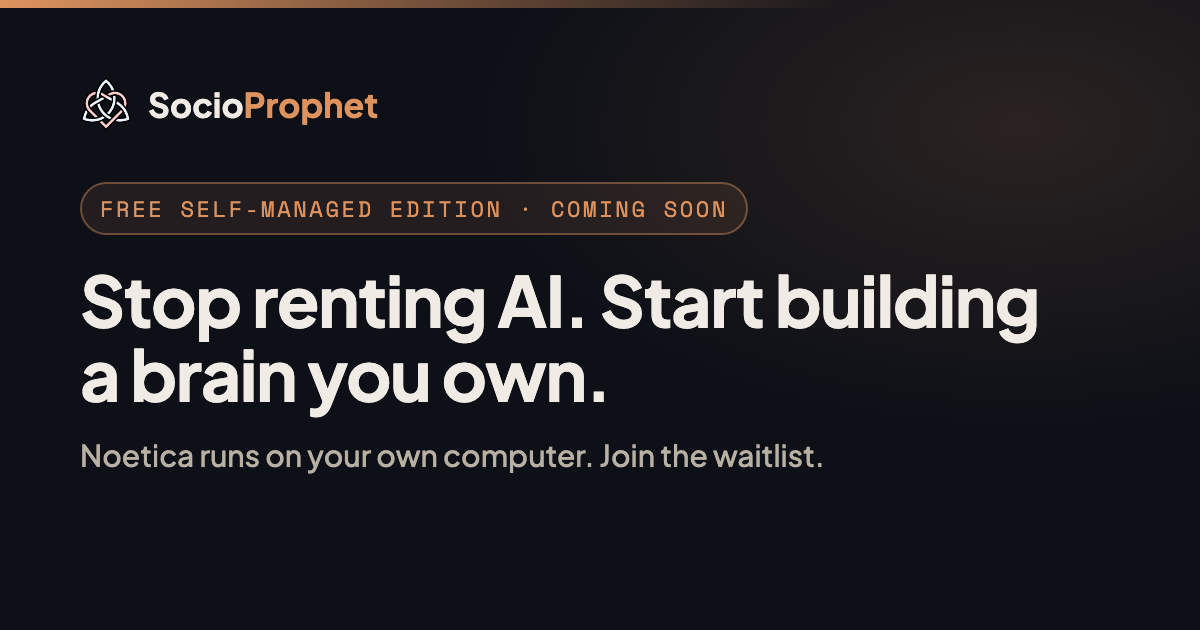
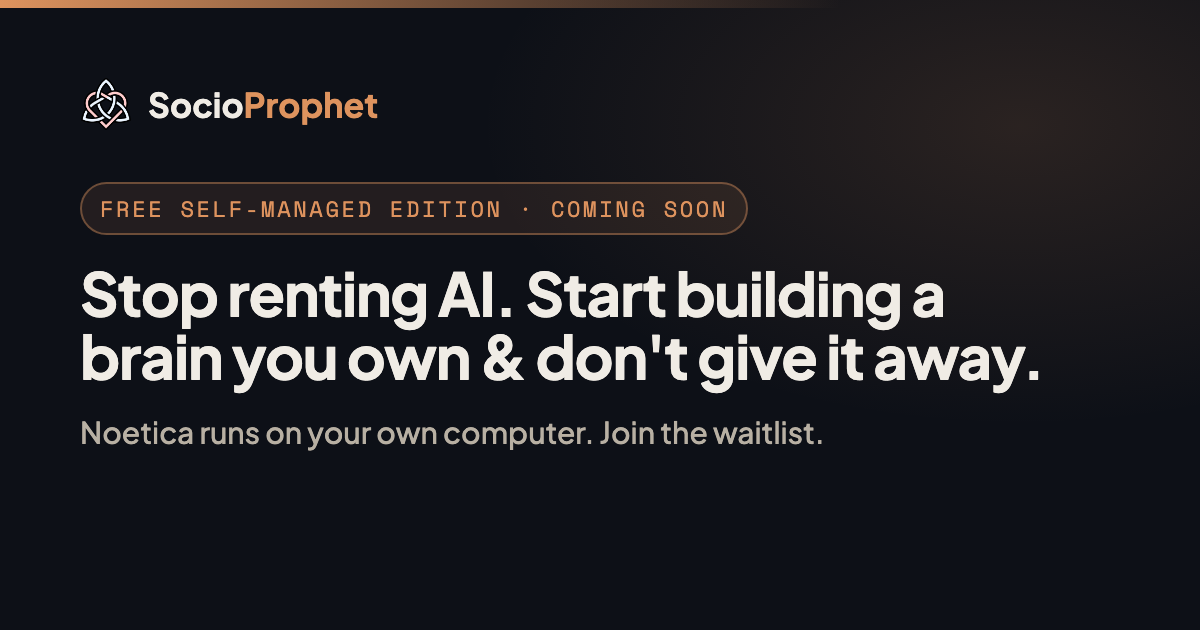
Beta page: final tagline "…a brain you own & don't give it away"

Changed region(s): [[0.0617, 0.4222, 0.8633, 0.754]]

diff --git a/src/pages/products/NoeticaBeta.tsx b/src/pages/products/NoeticaBeta.tsx
@@ -108,8 +108,8 @@ export function NoeticaBeta() {
             <Sparkles className="w-4 h-4" />
             <span>Free self-managed edition · Coming soon</span>
           </div>
-          <h1 className="text-4xl md:text-6xl font-bold tracking-tight text-white mb-5 leading-[1.1]">
-            Stop renting AI. Start building a brain you own.
+          <h1 className="text-4xl md:text-6xl font-bold tracking-tight text-white mb-5 leading-[1.1] text-balance">
+            Stop renting AI. Start building a brain you own &amp; don&apos;t give it away.
           </h1>
           <p className="text-lg text-muted-foreground leading-relaxed mb-8">
             Noetica runs today as managed deployments for organisations. Soon we&apos;re releasing a

diff --git a/CLAUDE.md b/CLAUDE.md
@@ -38,7 +38,7 @@ There is currently no lint script, no test script, and no test framework install
 
 Defined in `src/App.tsx`. Top-level: `/`, `/platform`, `/products`, `/products/:slug`, `/solutions`, `/solutions/:slug`, `/compare`, `/evidence`, `/education`, `/company` (alias `/about`), `/contact`, `/privacy`. Solutions has four hard-routed regulatory pages ahead of the generic `:slug` fallback: `/solutions/sr26-2`, `/solutions/apra-cps-230`, `/solutions/eu-ai-act`, `/solutions/fca-mas`.
 
-`/products/noetica/beta` is a link-only landing page (not in the nav): the waitlist for the upcoming **free, self-managed edition** of Noetica, for individuals and small businesses — the QR target from Gus's MPOWER Cumbre 2026 talk. Positioning: "Stop renting AI. Start building a brain you own." Frame the segment as next in line, never as "not for you yet" (Gus's explicit direction). Noetica runs today as managed deployments for organisations. Keep it English, plain, and short, and keep claims qualified ("no AI bills" holds only for local models; "your IP stays on your machine" rather than absolute "no leakage"). It has its own static `<head>` for link previews (see Deploy).
+`/products/noetica/beta` is a link-only landing page (not in the nav): the waitlist for the upcoming **free, self-managed edition** of Noetica, for individuals and small businesses — the QR target from Gus's MPOWER Cumbre 2026 talk. Positioning: "Stop renting AI. Start building a brain you own & don't give it away." Frame the segment as next in line, never as "not for you yet" (Gus's explicit direction). Noetica runs today as managed deployments for organisations. Keep it English, plain, and short, and keep claims qualified ("no AI bills" holds only for local models; "your IP stays on your machine" rather than absolute "no leakage"). It has its own static `<head>` for link previews (see Deploy).
 
 ## Environment variables
 
